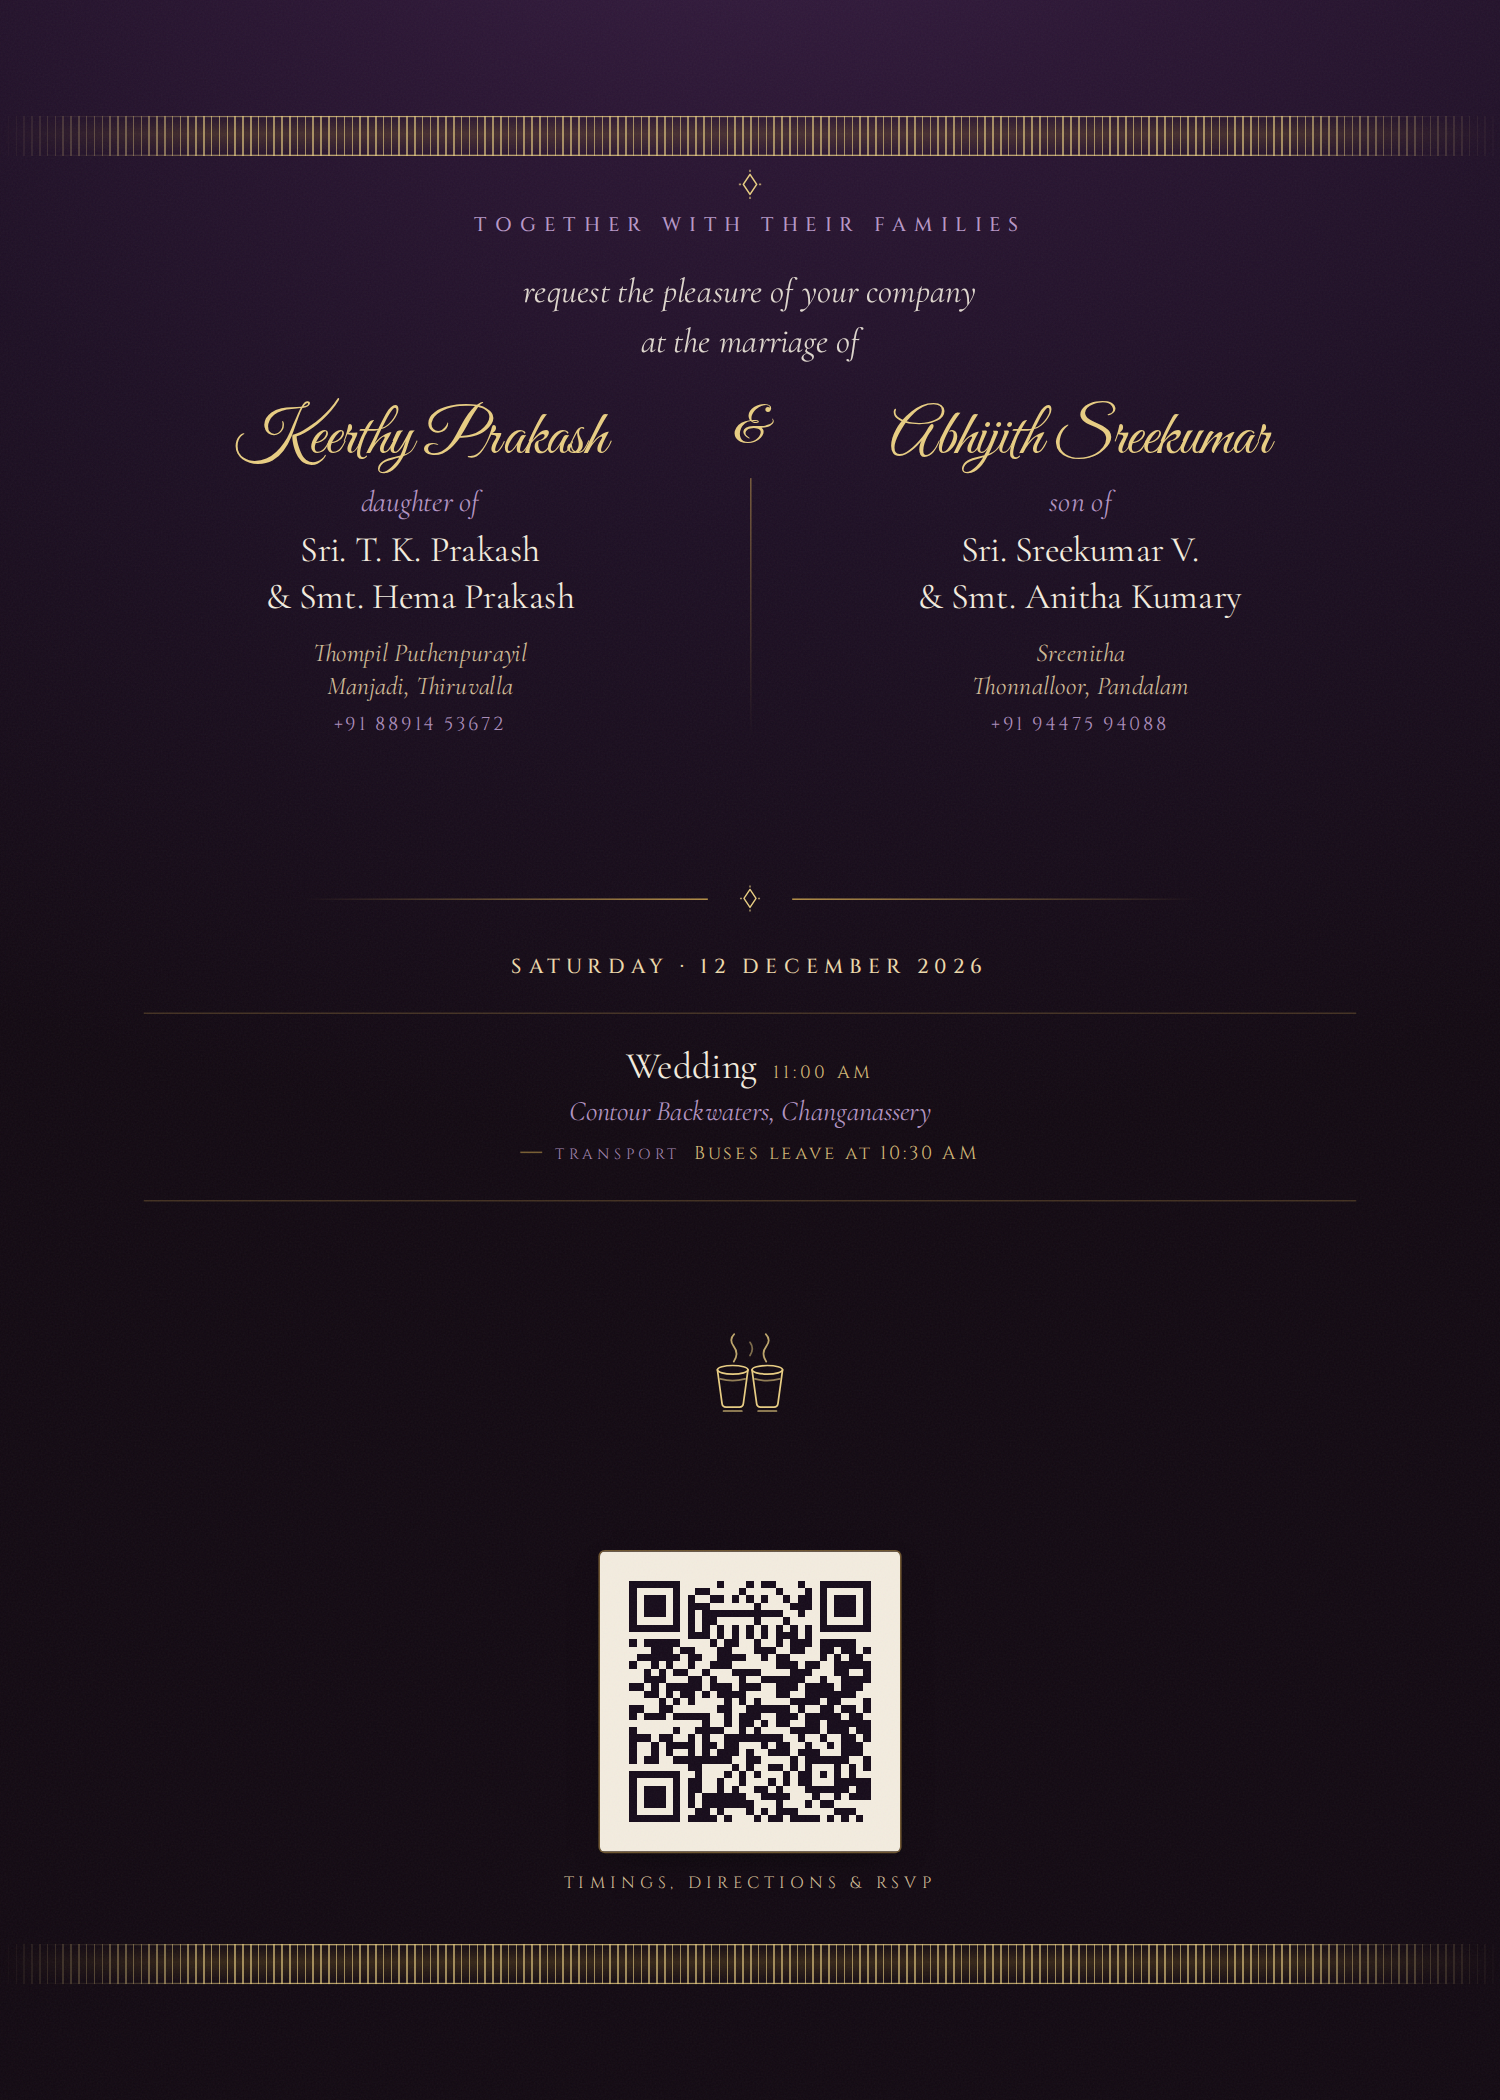
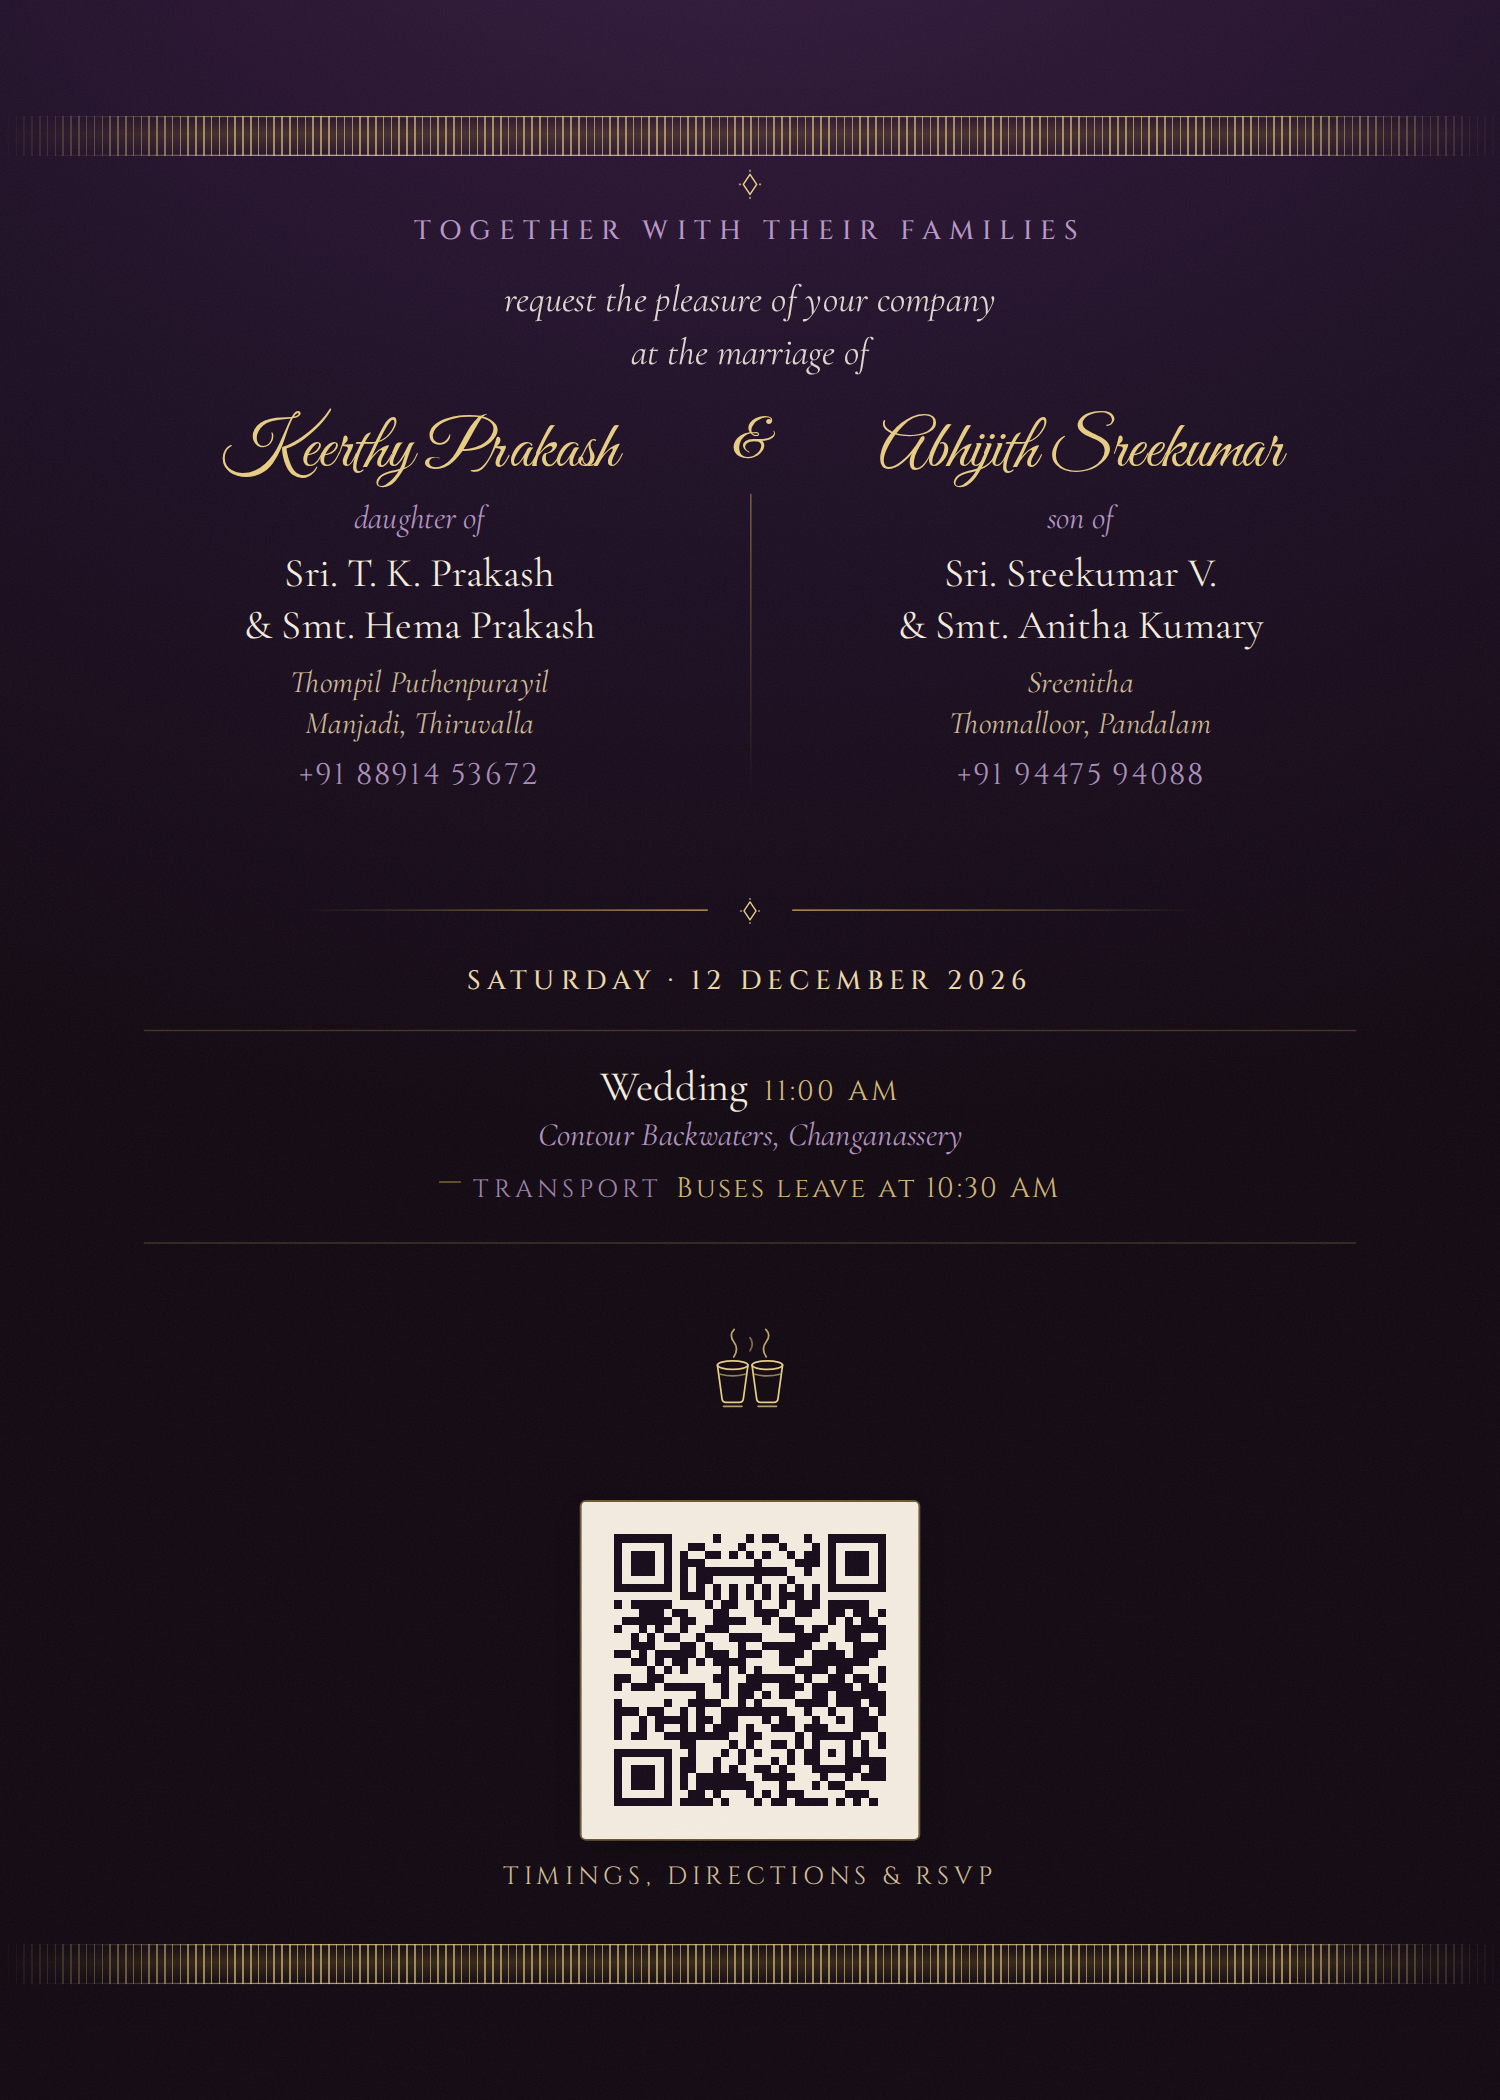
Raise the type: nothing on the suite prints below 6pt now
The studio was right. Eleven sizes were under 6pt and the worst were 3.56pt —
the "TRANSPORT" label, the return-address label on the envelope, the QR
caption. Both families' phone numbers were set at 4.50pt, which is the one
thing on the card someone actually has to read and dial.

Everything is now at least 6pt, and anything a guest has to read is 7.5pt or
more: the phone numbers go 4.50 -> 7.12, the event times 4.31 -> 6.75, the
venues 6.75 -> 7.88, the parents' names 8.62 -> 9.75.

Tracking comes in wherever the size went up. Wide letter-spacing is most of
what makes small Cinzel caps hard to read, so leaving it at 0.42em while
enlarging the type would have wasted half the gain and overflowed the line.

The QR grows from 1in to 1.125in. It had to: the all-events code carries a
longer URL, so it packs more modules into the same square, and once the type
around it was enlarged it stopped decoding at verify-qr.py's 70% stress
scale. Module size is the whole game with a printed code.

Claude-Session: https://claude.ai/code/session_01U3eNzvzbkYwe2F9QhNWExs

diff --git a/invitation/card-back.css b/invitation/card-back.css
@@ -15,8 +15,8 @@
 /* --- families ------------------------------------------------------------ */
 
 .eyebrow {
-  font-size: 12.5px;
-  letter-spacing: 0.42em;
+  font-size: 17px;
+  letter-spacing: 0.3em;
   color: rgba(198, 165, 216, 0.92);
   margin-top: 8px;
 }
@@ -44,7 +44,7 @@
 
 .families .divider .amp-mark {
   font-family: var(--font-script);
-  font-size: 34px;
+  font-size: 36px;
   line-height: 1.15;
   color: var(--gold-bright);
 }
@@ -57,7 +57,7 @@
 
 .families .full {
   font-family: var(--font-script);
-  font-size: 40px;
+  font-size: 42px;
   /* the script overshoots its box, same as the names on the front */
   line-height: 1.3;
   padding: 0 0.12em;
@@ -67,14 +67,14 @@
 
 .families .rel {
   font-style: italic;
-  font-size: 19px;
+  font-size: 21px;
   color: rgba(198, 165, 216, 0.9);
   margin-top: 2px;
 }
 
 .families .who {
-  font-size: 23px;
-  line-height: 1.3;
+  font-size: 26px;
+  line-height: 1.28;
   color: var(--ivory);
   margin-top: 6px;
 }
@@ -82,24 +82,24 @@
 /* house name and number under each family, so the card carries both */
 .families .house {
   font-style: italic;
-  font-size: 16.5px;
-  line-height: 1.3;
+  font-size: 20px;
+  line-height: 1.28;
   color: rgba(236, 217, 171, 0.86);
-  margin-top: 10px;
+  margin-top: 9px;
 }
 
 .families .tel {
   font-family: var(--font-label);
-  font-size: 12px;
-  letter-spacing: 0.13em;
+  font-size: 19px;
+  letter-spacing: 0.06em;
   color: rgba(198, 165, 216, 0.86);
-  margin-top: 5px;
+  margin-top: 6px;
 }
 
 .invite {
-  font-size: 22px;
-  line-height: 1.45;
-  margin-top: 18px;
+  font-size: 24px;
+  line-height: 1.4;
+  margin-top: 16px;
   max-width: 560px;
 }
 
@@ -134,24 +134,24 @@
 .ev .day {
   font-family: var(--font-label);
   text-transform: uppercase;
-  font-size: 12.5px;
-  letter-spacing: 0.16em;
+  font-size: 17px;
+  letter-spacing: 0.1em;
   color: var(--champagne);
   white-space: nowrap;
 }
 
 .ev .what {
   display: block;
-  font-size: 24px;
+  font-size: 27px;
   color: var(--ivory);
-  line-height: 1.18;
+  line-height: 1.16;
 }
 
 .ev .what .time {
   display: inline;
   font-family: var(--font-label);
-  font-size: 11.5px;
-  letter-spacing: 0.2em;
+  font-size: 18px;
+  letter-spacing: 0.1em;
   color: rgba(232, 205, 130, 0.92);
   margin-left: 10px;
   white-space: nowrap;
@@ -160,7 +160,7 @@
 .ev .venue {
   display: block;
   font-style: italic;
-  font-size: 18px;
+  font-size: 21px;
   color: rgba(198, 165, 216, 0.9);
   margin-top: 3px;
   line-height: 1.25;
@@ -169,10 +169,10 @@
 /* The public card covers one day rather than four, so it heads the block with
    the date and drops the per-row dates that would just repeat it. */
 .day-head {
-  font-size: 13px;
-  letter-spacing: 0.3em;
+  font-size: 17px;
+  letter-spacing: 0.22em;
   color: var(--champagne);
-  margin-top: 26px;
+  margin-top: 24px;
 }
 
 /* --- the chai glasses ----------------------------------------------------
@@ -197,8 +197,13 @@
 /* a cream plaque, not a cutout: the code has to be dark-on-light with its
    quiet zone intact or phones will not read it off the printed card */
 .qr-block img {
-  width: 192px;
-  height: 192px;
+  /* 1.125in rather than 1in. The all-events code carries a longer URL, so it
+     has more modules in the same square, and after the type was enlarged it
+     stopped decoding at the 70% stress scale in build/verify-qr.py. Module
+     size is the whole game with a printed code — a bigger square is the fix,
+     not a better scanner. */
+  width: 216px;
+  height: 216px;
   display: block;
   border-radius: 3px;
   box-shadow: 0 0 0 1px rgba(203, 162, 77, 0.5), 0 8px 20px -8px rgba(0, 0, 0, 0.6);
@@ -210,8 +215,8 @@
 .qr-block .caption {
   font-family: var(--font-label);
   text-transform: uppercase;
-  font-size: 10.5px;
-  letter-spacing: 0.3em;
+  font-size: 16px;
+  letter-spacing: 0.2em;
   color: rgba(236, 217, 171, 0.88);
 }
 
@@ -230,15 +235,15 @@
   gap: 9px;
   margin-top: 7px;
   font-family: var(--font-label);
-  font-size: 12px;
-  letter-spacing: 0.15em;
+  font-size: 18px;
+  letter-spacing: 0.08em;
   color: rgba(232, 205, 130, 0.9);
 }
 
 .transport .t-head {
   text-transform: uppercase;
-  font-size: 9.5px;
-  letter-spacing: 0.28em;
+  font-size: 16px;
+  letter-spacing: 0.18em;
   color: rgba(198, 165, 216, 0.8);
   /* a hairline rule in front of the word, so the note reads as an aside to
      the event above it rather than as another line of the address */

diff --git a/invitation/envelope-flat.html b/invitation/envelope-flat.html
@@ -137,8 +137,8 @@
   .crest { color: var(--seal-ink); opacity: 0.92; }
 
   .crest-sub {
-    font-size: 10.5px;
-    letter-spacing: 0.46em;
+    font-size: 16px;
+    letter-spacing: 0.32em;
     color: var(--text-soft);
     margin-top: 20px;
   }
@@ -158,8 +158,8 @@
   .to { width: 100%; }
 
   .to-label {
-    font-size: 10.5px;
-    letter-spacing: 0.46em;
+    font-size: 16px;
+    letter-spacing: 0.32em;
     color: var(--text-label);
     text-align: left;
     margin-bottom: 42px;
@@ -183,22 +183,22 @@
   }
 
   .from .from-label {
-    font-size: 9.5px;
-    letter-spacing: 0.34em;
+    font-size: 16px;
+    letter-spacing: 0.22em;
     color: var(--text-soft);
     margin-bottom: 10px;
   }
-  .from .who { font-size: 20px; color: var(--text-strong); line-height: 1.35; }
+  .from .who { font-size: 24px; color: var(--text-strong); line-height: 1.35; }
   .from .where {
-    font-size: 17px;
+    font-size: 20px;
     font-style: italic;
     color: var(--text-soft);
     margin-top: 2px;
   }
 
   .when {
-    font-size: 10.5px;
-    letter-spacing: 0.3em;
+    font-size: 16px;
+    letter-spacing: 0.2em;
     color: var(--text-label);
     text-align: right;
     line-height: 2;

diff --git a/invitation/card-front.html b/invitation/card-front.html
@@ -69,15 +69,15 @@
   }
 
   .when {
-    font-size: 19px;
-    letter-spacing: 0.36em;
+    font-size: 22px;
+    letter-spacing: 0.3em;
     color: var(--ivory);
     margin-top: 30px;
   }
 
   .where {
-    font-size: 14px;
-    letter-spacing: 0.42em;
+    font-size: 18px;
+    letter-spacing: 0.32em;
     color: rgba(198, 165, 216, 0.9);
     margin-top: 14px;
   }

diff --git a/invitation/build/PRINT-SPEC.md b/invitation/build/PRINT-SPEC.md
@@ -157,7 +157,9 @@ Two things that are deliberate, so they are not "fixed" on the way through:
 Each card back carries a QR code that takes guests to the wedding website. It is
 the one element on the card that can silently stop working.
 
-- It prints at **1 inch / 25.4 mm square**. **Do not reduce it.**
+- It prints at **1.125 in / 28.6 mm square**. **Do not reduce it.** The
+  all-events code carries a longer URL, so it has more modules in that square
+  and less margin than it looks.
 - **Do not invert it, tint it, or print it as gold on plum.** It must stay dark
   on the cream plaque it sits on. The plaque is not decoration — it is the
   quiet zone the scanner needs.
